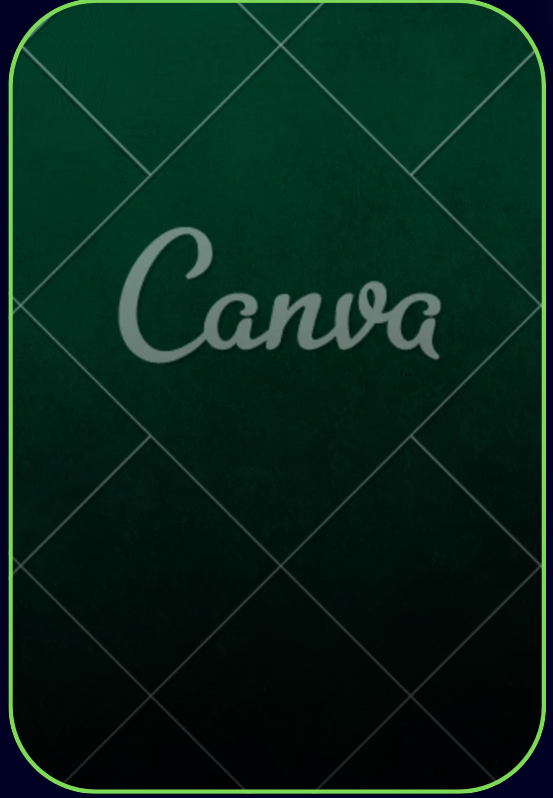
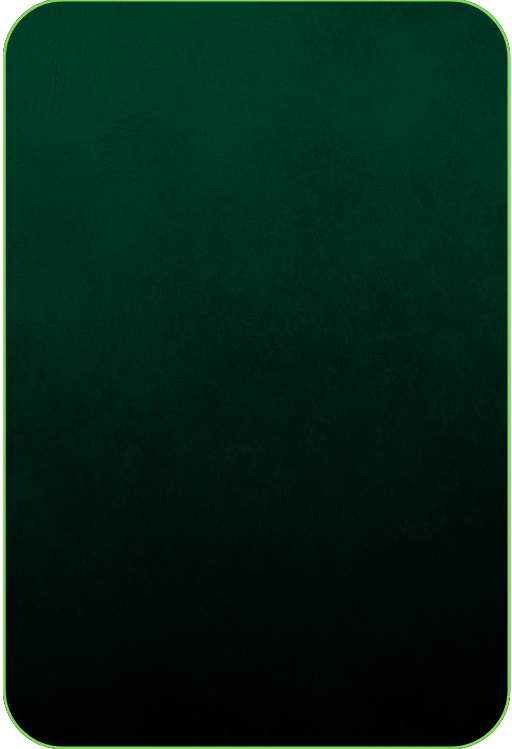
updated assets for signup page

diff --git a/frontend/src/pages/Signup.jsx b/frontend/src/pages/Signup.jsx
@@ -18,7 +18,7 @@ export default function SignupPage() {
       </div>
       
       <div className="bg-green-900 bg-opacity-90 rounded-[70px] p-8 w-[500px] shadow-lg border-4 border-green-400 relative mt-9">
-        <div className="absolute inset-0 bg-[url('https://res.cloudinary.com/dbt5dmcu2/image/upload/v1729421385/signup-bg_mx7art.png')] bg-center bg-no-repeat opacity-10"></div>
+        <div className="absolute inset-0 bg-[url('https://res.cloudinary.com/dbt5dmcu2/image/upload/v1729449934/signup-bg_jz17r3.png')] bg-center bg-no-repeat opacity-10"></div>
         <h2 className="text-2xl font-bold text-green-400 text-center mb-6">SIGN-UP:TEAM BUILDER</h2>
         <div className="flex justify-center mb-6 relative">
           <div className="">
@@ -39,43 +39,43 @@ export default function SignupPage() {
             <input 
               type="text" 
               placeholder="LAST NAME" 
-              className="ring-2 ring-green-500 w-full py-2 px-4 bg-green-800 bg-opacity-50 rounded-full text-green-100 placeholder-green-400 focus:outline-none focus:ring-2 focus:ring-green-500"
+              className="ring-2 ring-green-500 w-full py-2 px-4 bg-green-800 bg-opacity-50 rounded-full text-green-400 placeholder-green-400 focus:outline-none focus:ring-2 focus:ring-green-500"
             />
           </div>
           
           <input 
             type="email" 
             placeholder="EMAIL" 
-            className="ring-2 ring-green-500 w-full py-2 px-4 bg-green-800 bg-opacity-50 rounded-full text-green-100 placeholder-green-400 focus:outline-none focus:ring-2 focus:ring-green-500"
+            className="ring-2 ring-green-500 w-full py-2 px-4 bg-green-800 bg-opacity-50 rounded-full text-green-400 placeholder-green-400 focus:outline-none focus:ring-2 focus:ring-green-500"
           />
           
           <input 
             type="tel" 
             placeholder="PHONE NUMBER" 
-            className="ring-2 ring-green-500 w-full py-2 px-4 bg-green-800 bg-opacity-50 rounded-full text-green-100 placeholder-green-400 focus:outline-none focus:ring-2 focus:ring-green-500"
+            className="ring-2 ring-green-500 w-full py-2 px-4 bg-green-800 bg-opacity-50 rounded-full text-green-400 placeholder-green-400 focus:outline-none focus:ring-2 focus:ring-green-500"
           />
           
           <input 
             type="date" 
             placeholder="DATE OF BIRTH" 
-            className="ring-2 ring-green-500 w-full py-2 px-4 bg-green-800 bg-opacity-50 rounded-full text-green-100 placeholder-green-400 focus:outline-none focus:ring-2 focus:ring-green-500"
+            className="ring-2 ring-green-500 w-full py-2 px-4 bg-green-800 bg-opacity-50 rounded-full text-green-400 placeholder-green-400 focus:outline-none focus:ring-2 focus:ring-green-500"
           />
           
           <div className="grid grid-cols-2 gap-4">
             <input 
               type="text" 
               placeholder="RIOT ID" 
-              className="ring-2 ring-green-500 w-full py-2 px-4 bg-green-800 bg-opacity-50 rounded-full text-green-100 placeholder-green-400 focus:outline-none focus:ring-2 focus:ring-green-500"
+              className="ring-2 ring-green-500 w-full py-2 px-4 bg-green-800 bg-opacity-50 rounded-full text-green-400 placeholder-green-400 focus:outline-none focus:ring-2 focus:ring-green-500"
             />
             <input 
               type="text" 
               placeholder="#TAGLINE" 
-              className="ring-2 ring-green-500 w-full py-2 px-4 bg-green-800 bg-opacity-50 rounded-full text-green-100 placeholder-green-400 focus:outline-none focus:ring-2 focus:ring-green-500"
+              className="ring-2 ring-green-500 w-full py-2 px-4 bg-green-800 bg-opacity-50 rounded-full text-green-400 placeholder-green-400 focus:outline-none focus:ring-2 focus:ring-green-500"
             />
           </div>
           
           <select 
-            className="ring-2 ring-green-500 w-full py-2 px-4 bg-green-800 bg-opacity-50 rounded-full text-green-100 focus:outline-none focus:ring-2 focus:ring-green-500"
+            className="ring-2 ring-green-500 w-full py-2 px-4 bg-green-800 bg-opacity-50 rounded-full text-green-400 focus:outline-none focus:ring-2 focus:ring-green-500"
           >
             <option value="">SELECT YOUR REGION</option>
             <option value="na">North America</option>
@@ -87,7 +87,7 @@ export default function SignupPage() {
             <input 
               type={showPassword ? "text" : "password"}
               placeholder="SET A PASSWORD" 
-              className="ring-2 ring-green-500 w-full py-2 pr-10 px-4 bg-green-800 bg-opacity-50 rounded-full text-green-100 placeholder-green-400 focus:outline-none focus:ring-2 focus:ring-green-500"
+              className="ring-2 ring-green-500 w-full py-2 pr-10 px-4 bg-green-800 bg-opacity-50 rounded-full text-green-400 placeholder-green-400 focus:outline-none focus:ring-2 focus:ring-green-500"
             />
             <button
               type="button"
